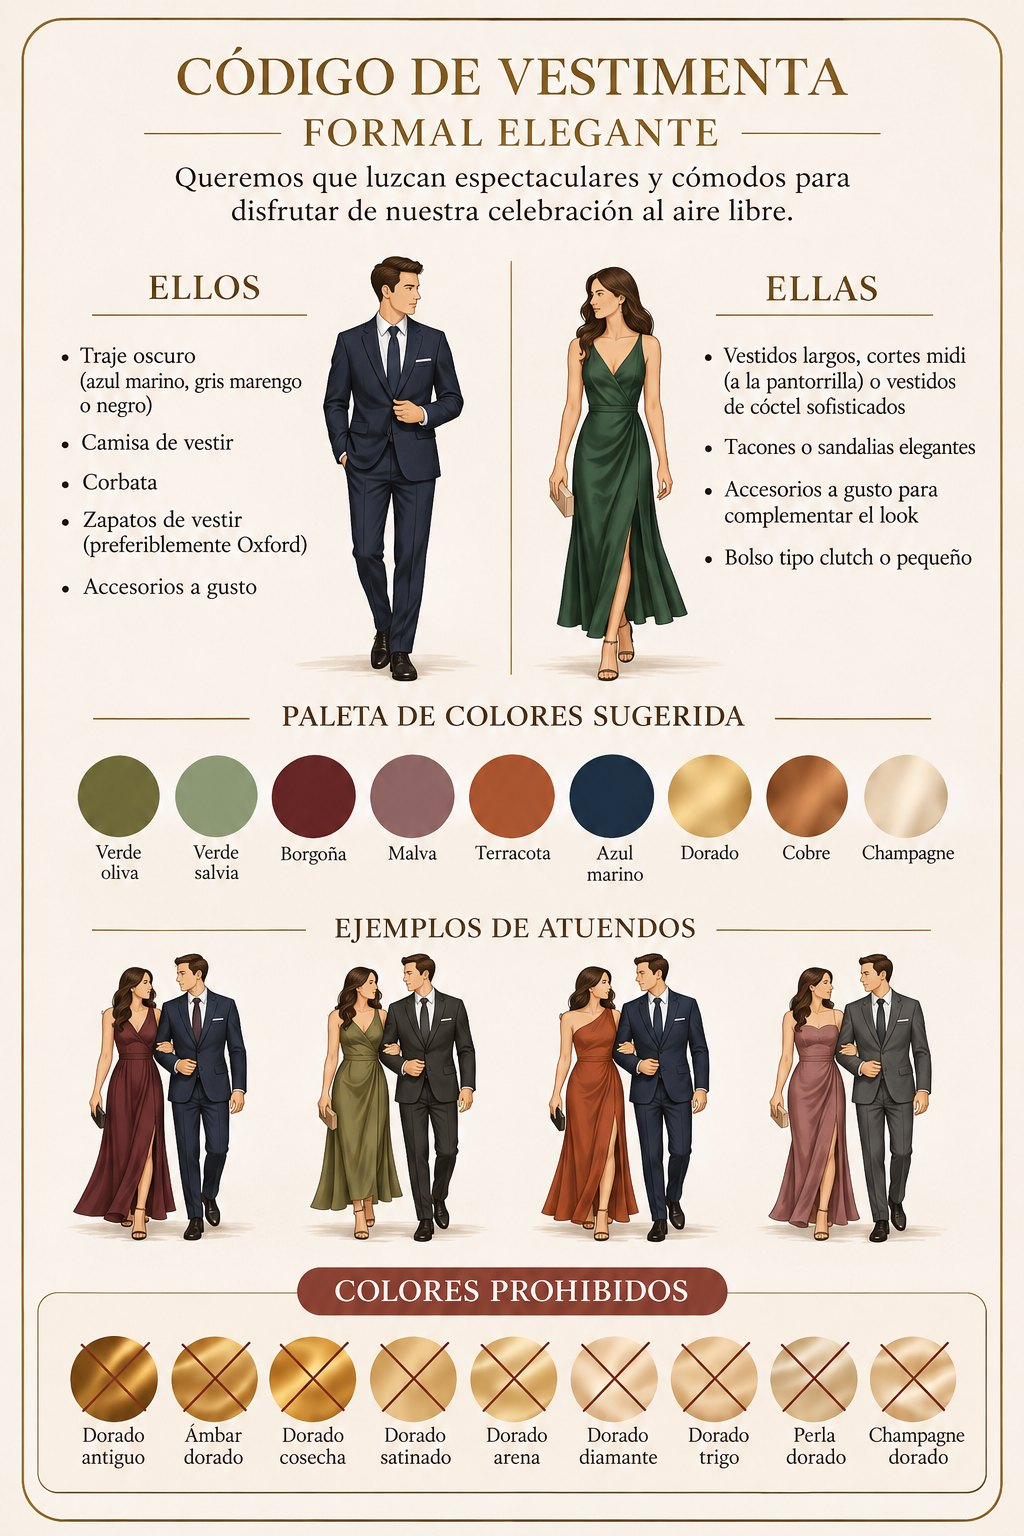
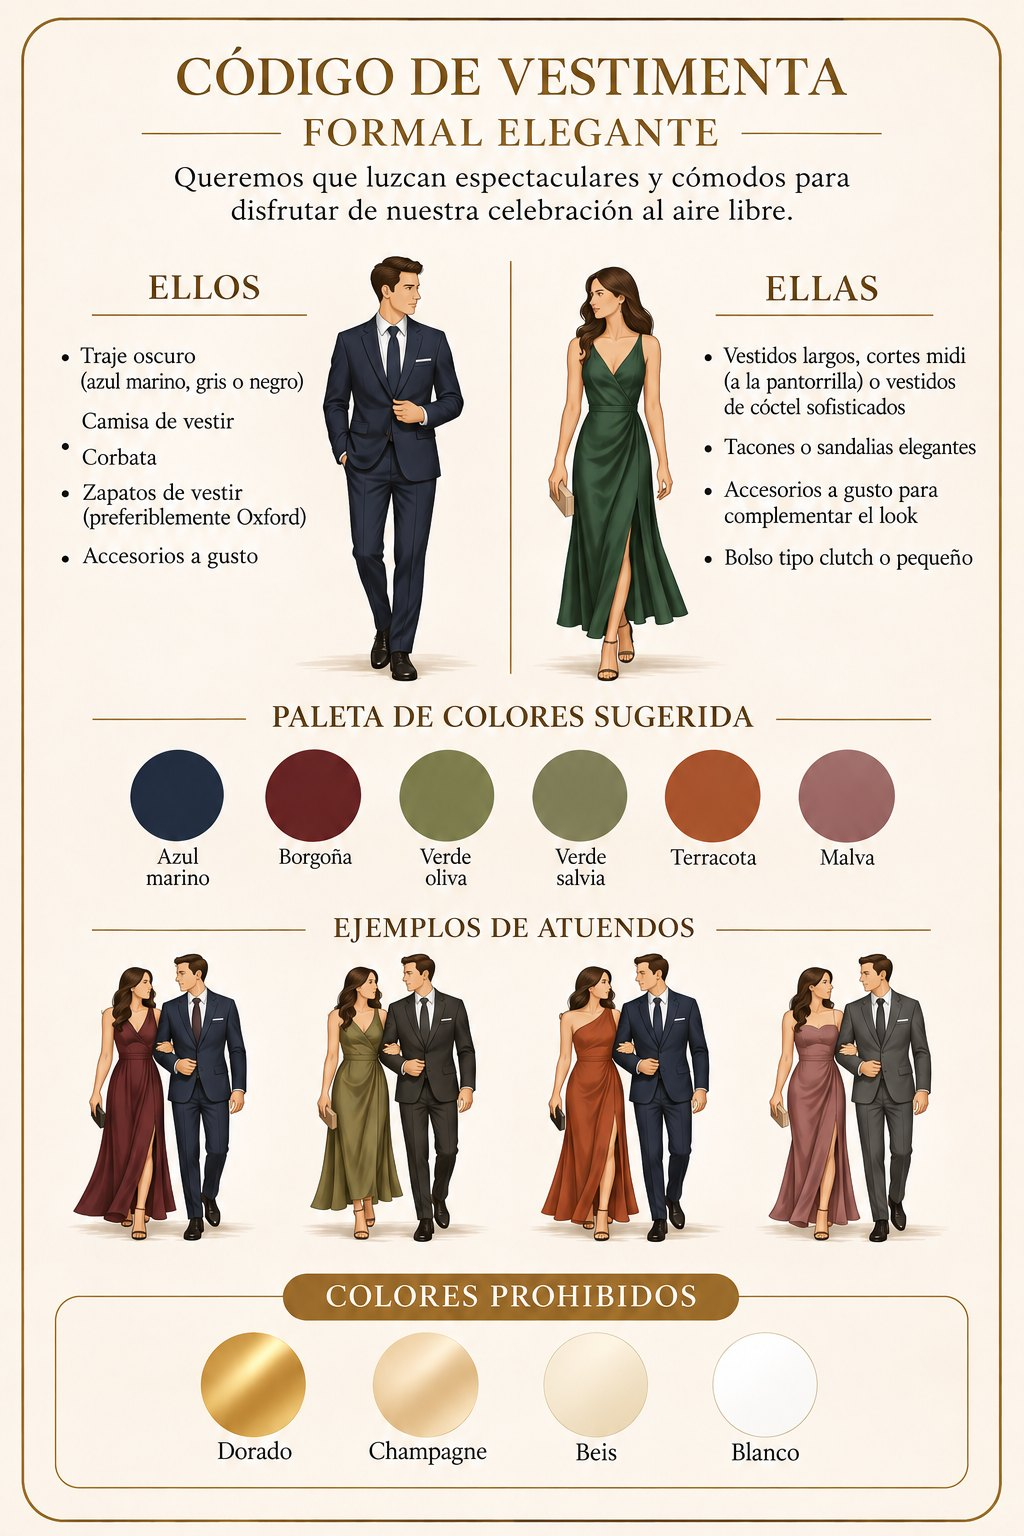
Add files via upload

diff --git a/regalo-modal.js b/regalo-modal.js
@@ -10,12 +10,13 @@
     const REGALO = {
         mesaRegalosUrl: '#',
         titulares: [
-            { nombre: 'Leidy Laura Cáceres Díaz', cuentas: [['Cuenta de ahorro · Pesos (RD$)', '9609982355'], ['Cuenta de ahorro · Dólares (US$)', '9607777949']] }
+            { nombre: 'Leidy Laura Cáceres Díaz', banco: 'Banco de Reservas (Banreservas)', cuentas: [['Cuenta de ahorro en pesos (RD$)', '9609982355'], ['Cuenta de ahorro en dólares (US$)', '9607777949']] }
         ]
     };
 
     function holder(h) {
         return '<div class="rg-holder"><div class="rg-holder-name">' + h.nombre + '</div>' +
+            (h.banco ? '<div class="rg-holder-bank">' + h.banco + '</div>' : '') +
             h.cuentas.map(function (c) { return row(c[0], c[1]); }).join('') +
             (h.cedula ? row('Cédula', h.cedula) : '') +
             (h.correo ? row('Correo', h.correo) : '') +
@@ -136,8 +137,8 @@
     window.closeGiftModal = closeGiftModal;
     window.showGifts = openGiftModal; // compatibilidad con onclick="showGifts()"
     /* ----- Código de vestimenta (imagen flotante) ----- */
-    const DRESS_IMG = 'codigo-vestimenta.jpg?v=6';
-    const DRESS_IMG_MOVIL = 'codigo-vestimenta-movil.jpg?v=6';
+    const DRESS_IMG = 'codigo-vestimenta.jpg?v=7';
+    const DRESS_IMG_MOVIL = 'codigo-vestimenta-movil.jpg?v=7';
 
     function buildDress() {
         if (document.getElementById('rgDressOverlay')) return;
@@ -146,7 +147,7 @@
               '<div class="rg-sheet rg-dress">' +
                 '<button type="button" class="rg-close" aria-label="Cerrar">&times;</button>' +
                 '<picture><source media="(max-width: 640px)" srcset="' + DRESS_IMG_MOVIL + '">' +
-                '<img src="' + DRESS_IMG + '" alt="Código de vestimenta formal elegante. Colores sugeridos: verde oliva, verde salvia, borgoña, malva, terracota, azul marino, dorado, cobre y champagne. Colores prohibidos: tonos dorados (antiguo, ámbar, cosecha, satinado, arena, diamante, trigo, perla y champagne dorado)." loading="lazy"></picture>' +
+                '<img src="' + DRESS_IMG + '" alt="Código de vestimenta formal elegante. Colores sugeridos: azul marino, borgoña, verde oliva, verde salvia, terracota y malva. Colores prohibidos: dorado, champagne, beis y blanco." loading="lazy"></picture>' +
               '</div>' +
             '</div>');
         const o = document.getElementById('rgDressOverlay');

diff --git a/index.html b/index.html
@@ -30,7 +30,7 @@
     <link rel="preconnect" href="https://www.google.com">
     <link href="https://fonts.googleapis.com/css2?family=Great+Vibes&family=Pinyon+Script&family=Bodoni+Moda:ital,opsz,wght@0,6..96,400..700;1,6..96,400..600&family=EB+Garamond:ital,wght@0,400..600;1,400..500&family=Cormorant+Garamond:ital,wght@0,400;0,600;1,400&display=swap" rel="stylesheet">
     <link rel="stylesheet" href="CCSB.css?v=37">
-    <link rel="stylesheet" href="regalo-modal.css?v=5">
+    <link rel="stylesheet" href="regalo-modal.css?v=6">
         <style>
         /* Carrusel: 3 imágenes simultáneamente con foto central destacada */
         .carousel-track-container {
@@ -730,6 +730,6 @@
         })();
         </script>
         <script src="JAVAB.js?v=27" defer></script>
-        <script src="regalo-modal.js?v=7" defer></script>
+        <script src="regalo-modal.js?v=9" defer></script>
 </body>
 </html>

diff --git a/regalo-modal.css b/regalo-modal.css
@@ -206,3 +206,5 @@
 /* Paleta nueva: en celular la imagen es vertical; se puede desplazar dentro */
 .rg-dress { max-height: 92vh; max-height: 92dvh; overflow-y: auto; -webkit-overflow-scrolling: touch; overscroll-behavior: contain; }
 .rg-dress .rg-close { position: sticky; float: right; margin: 6px 6px -36px 0; z-index: 2; }
+
+.rg-holder-bank { margin: -0.2rem 0 0.7rem; text-align: center; font-family: 'EB Garamond', Georgia, serif; font-style: italic; font-size: 0.98rem; color: #7D6A4F; }
